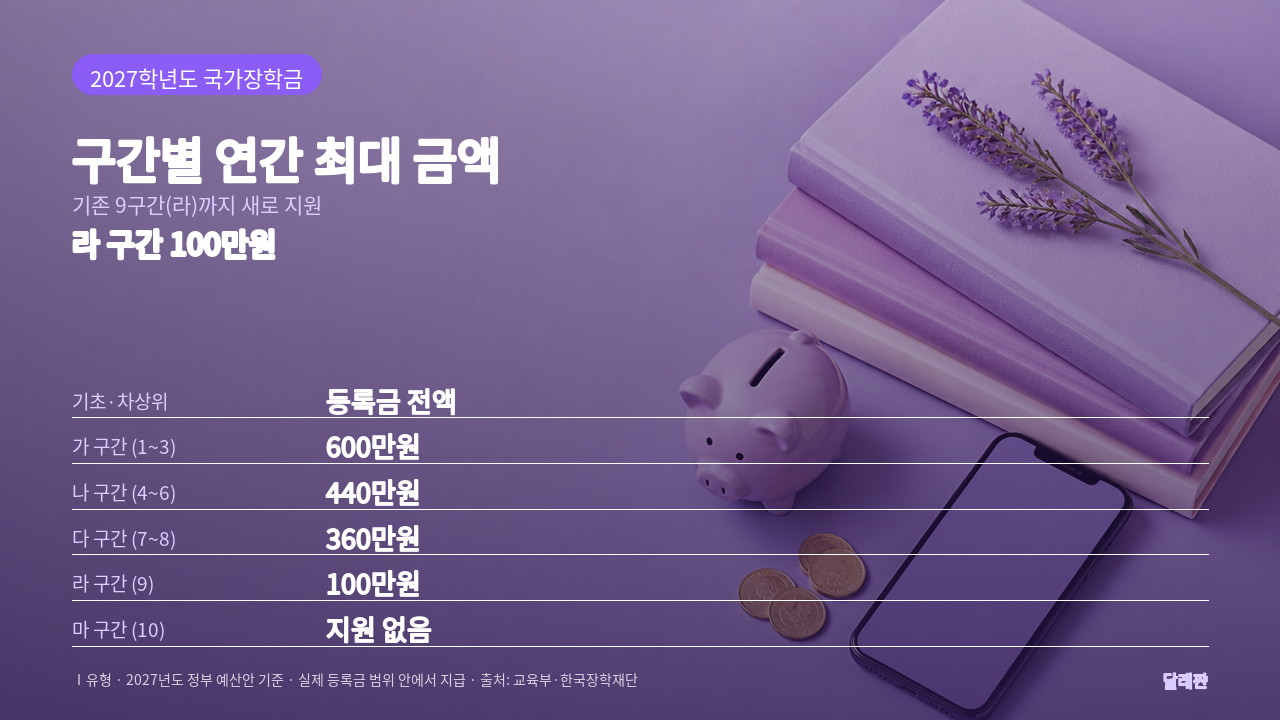
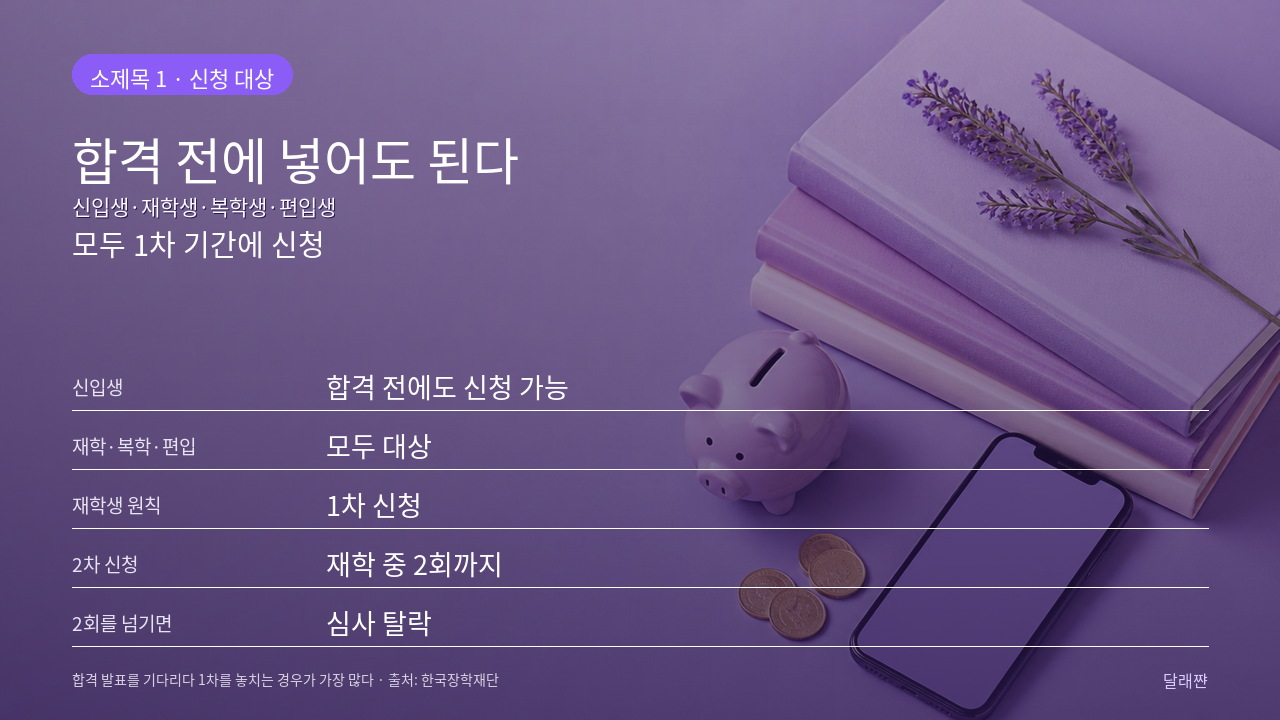
11/26 지원금 3편 v22: 본문 이미지 5장 확장(썸네일 1+본문 5=편당 6장, 총 18장) + 본문 글씨 굵기 얇게(stroke 제거, Regular 그대로) — 본문 이미지는 소제목 5개와 1:1 대응, 배경 일러스트 9장 추가 생성

diff --git a/topics-data.js b/topics-data.js
@@ -1,7 +1,7 @@
 window.TOPICS_FALLBACK = {
- "updated": "2026-11-26T19:02:30+09:00",
+ "updated": "2026-11-26T19:12:11+09:00",
  "label": "2026년 11월 넷째 주",
- "version": 21,
+ "version": 22,
  "blogs": [
   {
    "id": "drama",
@@ -9089,14 +9089,32 @@ window.TOPICS_FALLBACK = {
     {
      "src": "assets/money/kosaf2027-body1.jpg",
      "role": "body",
-     "label": "본문 이미지 1 · 구간별 연간 최대 금액",
-     "alt": "2027학년도 국가장학금 구간별 연간 최대 금액 표"
+     "label": "본문 이미지 1 · 소제목 1 합격 전에 넣어도 된다",
+     "alt": "국가장학금은 합격 전에도 신청할 수 있다, 신입생·재학생 모두 1차 기간"
     },
     {
      "src": "assets/money/kosaf2027-body2.jpg",
      "role": "body",
-     "label": "본문 이미지 2 · 신청 일정과 방법",
-     "alt": "국가장학금 1차 신청 일정과 신청 방법"
+     "label": "본문 이미지 2 · 소제목 2 2027년부터 달라지는 구간과 금액",
+     "alt": "2027학년도 국가장학금 구간별 연간 최대 금액"
+    },
+    {
+     "src": "assets/money/kosaf2027-body3.jpg",
+     "role": "body",
+     "label": "본문 이미지 3 · 소제목 3 다자녀와 지방 국립대",
+     "alt": "국가장학금 다자녀 가구별 금액과 지방 국립대 전액 장학금"
+    },
+    {
+     "src": "assets/money/kosaf2027-body4.jpg",
+     "role": "body",
+     "label": "본문 이미지 4 · 소제목 4 신청은 재단 누리집과 앱에서",
+     "alt": "국가장학금은 한국장학재단 누리집과 앱에서 24시간 신청, 마감 18시"
+    },
+    {
+     "src": "assets/money/kosaf2027-body5.jpg",
+     "role": "body",
+     "label": "본문 이미지 5 · 소제목 5 신청 뒤에 확인할 것",
+     "alt": "국가장학금 신청 뒤 신청완료 내역과 서류·가구원 동의 확인"
     }
    ],
    "isNew": true
@@ -9255,14 +9273,32 @@ window.TOPICS_FALLBACK = {
     {
      "src": "assets/money/munhwari-body1.jpg",
      "role": "body",
-     "label": "본문 이미지 1 · 금액과 대상",
-     "alt": "2026년 문화누리카드 금액과 대상 요약"
+     "label": "본문 이미지 1 · 소제목 1 올해는 1인당 15만원이다",
+     "alt": "2026년 문화누리카드 1인당 연 15만원, 청소년기·준고령기 16만원"
     },
     {
      "src": "assets/money/munhwari-body2.jpg",
      "role": "body",
-     "label": "본문 이미지 2 · 발급과 사용 마감",
-     "alt": "문화누리카드 발급과 사용 마감, 미사용 잔액 국고 반납"
+     "label": "본문 이미지 2 · 소제목 2 안 쓴 돈은 연말에 국고로 간다",
+     "alt": "문화누리카드 미사용 잔액 소멸, 본인 충전금은 소멸 대상 아님"
+    },
+    {
+     "src": "assets/money/munhwari-body3.jpg",
+     "role": "body",
+     "label": "본문 이미지 3 · 소제목 3 신청은 주민센터와 누리집, 앱에서",
+     "alt": "문화누리카드 신청 방법, 주민센터·누리집·앱, 전화는 재충전만"
+    },
+    {
+     "src": "assets/money/munhwari-body4.jpg",
+     "role": "body",
+     "label": "본문 이미지 4 · 소제목 4 결제는 가맹점에서만 된다",
+     "alt": "문화누리카드 가맹점 3만 6천여 곳, 문화·관광·체육 결제"
+    },
+    {
+     "src": "assets/money/munhwari-body5.jpg",
+     "role": "body",
+     "label": "본문 이미지 5 · 소제목 5 12월 31일 전에 확인할 것",
+     "alt": "문화누리카드 12월 31일 사용 마감 전 잔액과 가맹점 확인"
     }
    ],
    "isNew": true
@@ -9421,14 +9457,32 @@ window.TOPICS_FALLBACK = {
     {
      "src": "assets/money/eitclate-body1.jpg",
      "role": "body",
-     "label": "본문 이미지 1 · 구분별 최대 지급액",
-     "alt": "근로·자녀장려금 가구 유형별 최대 지급액"
+     "label": "본문 이미지 1 · 소제목 1 올해는 안내 대상이 늘었다",
+     "alt": "근로·자녀장려금 기한 후 신청 안내 대상 26만 가구, 1만 가구 추가"
     },
     {
      "src": "assets/money/eitclate-body2.jpg",
      "role": "body",
-     "label": "본문 이미지 2 · 신청과 지급",
-     "alt": "근로·자녀장려금 신청 마감과 지급일, 신청 방법"
+     "label": "본문 이미지 2 · 소제목 2 5%가 줄어도 받는 게 낫다",
+     "alt": "기한 후 신청은 산정액의 95%, 신청하지 않으면 0원"
+    },
+    {
+     "src": "assets/money/eitclate-body3.jpg",
+     "role": "body",
+     "label": "본문 이미지 3 · 소제목 3 얼마를 받을 수 있나",
+     "alt": "근로·자녀장려금 가구 유형별 최대 지급액"
+    },
+    {
+     "src": "assets/money/eitclate-body4.jpg",
+     "role": "body",
+     "label": "본문 이미지 4 · 소제목 4 신청은 세 가지 길이 있다",
+     "alt": "근로·자녀장려금 신청 방법 QR·ARS 1544-9944·홈택스"
+    },
+    {
+     "src": "assets/money/eitclate-body5.jpg",
+     "role": "body",
+     "label": "본문 이미지 5 · 소제목 5 내년부터는 금액이 더 늘어난다",
+     "alt": "2027년 귀속분 근로장려금 최대액 확대, 단독 180만·홑벌이 310만·맞벌이 360만원"
     }
    ],
    "isNew": true

diff --git a/index.html b/index.html
@@ -690,7 +690,7 @@
 </div>
 
 <script src="engine.js?v=7"></script>
-<script src="topics-data.js?v=8"></script>
+<script src="topics-data.js?v=9"></script>
 <script src="stats-data.js?v=10"></script>
 <script src="homefeed-data.js?v=3"></script>
 <script src="app.js?v=20"></script>
